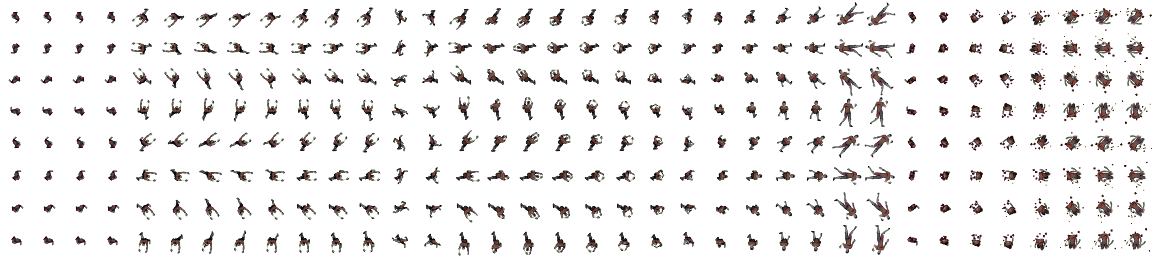
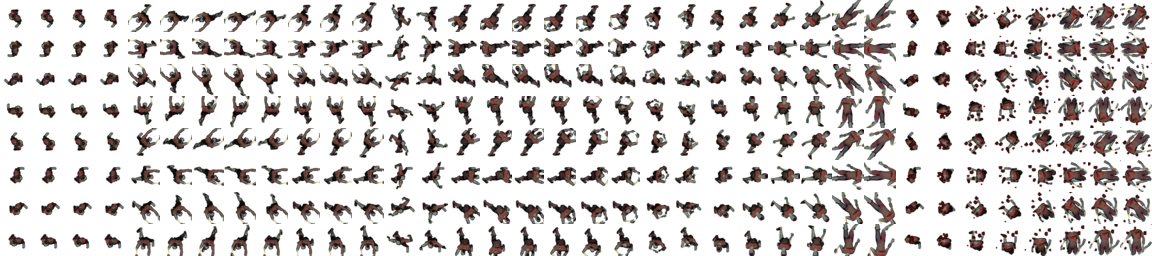
Zoomed zombie textures to make the actual mob 'bigger'.\nFixed bug in background music handler

Changed region(s): [[0.0, 0.0, 1.0, 1.0]]

diff --git a/weapon.py b/weapon.py
@@ -134,11 +134,11 @@ class Laser(Weapon):
         if not Weapon.fire(self, startPos, angle, numTicks, channel):
             return
 
-        #To much firing overheats weapon
+        #To much firing overheats weapon1
         if numTicks - self.lastFire < LASERTHRESHOLD:
             self.stressLevel += 1
         else:
-            self.stressLevel -= 1
+            self.stressLevel -= 1       
 
         #Make sure the value is between limits
         if self.stressLevel < 0:

diff --git a/backgroundmusic.py b/backgroundmusic.py
@@ -16,7 +16,7 @@ class BackgroundMusic(object):
         mixer.music.set_endevent(USEREVENT)
 
     def playTrack(self):
-        audioFile = self.files[ random.randint(0, len(self.files)) ]
+        audioFile = self.files[ random.randint(0, len(self.files)-1) ]
         mixer.music.load(os.path.join(MUSICPATH, audioFile))
         mixer.music.play()
 
